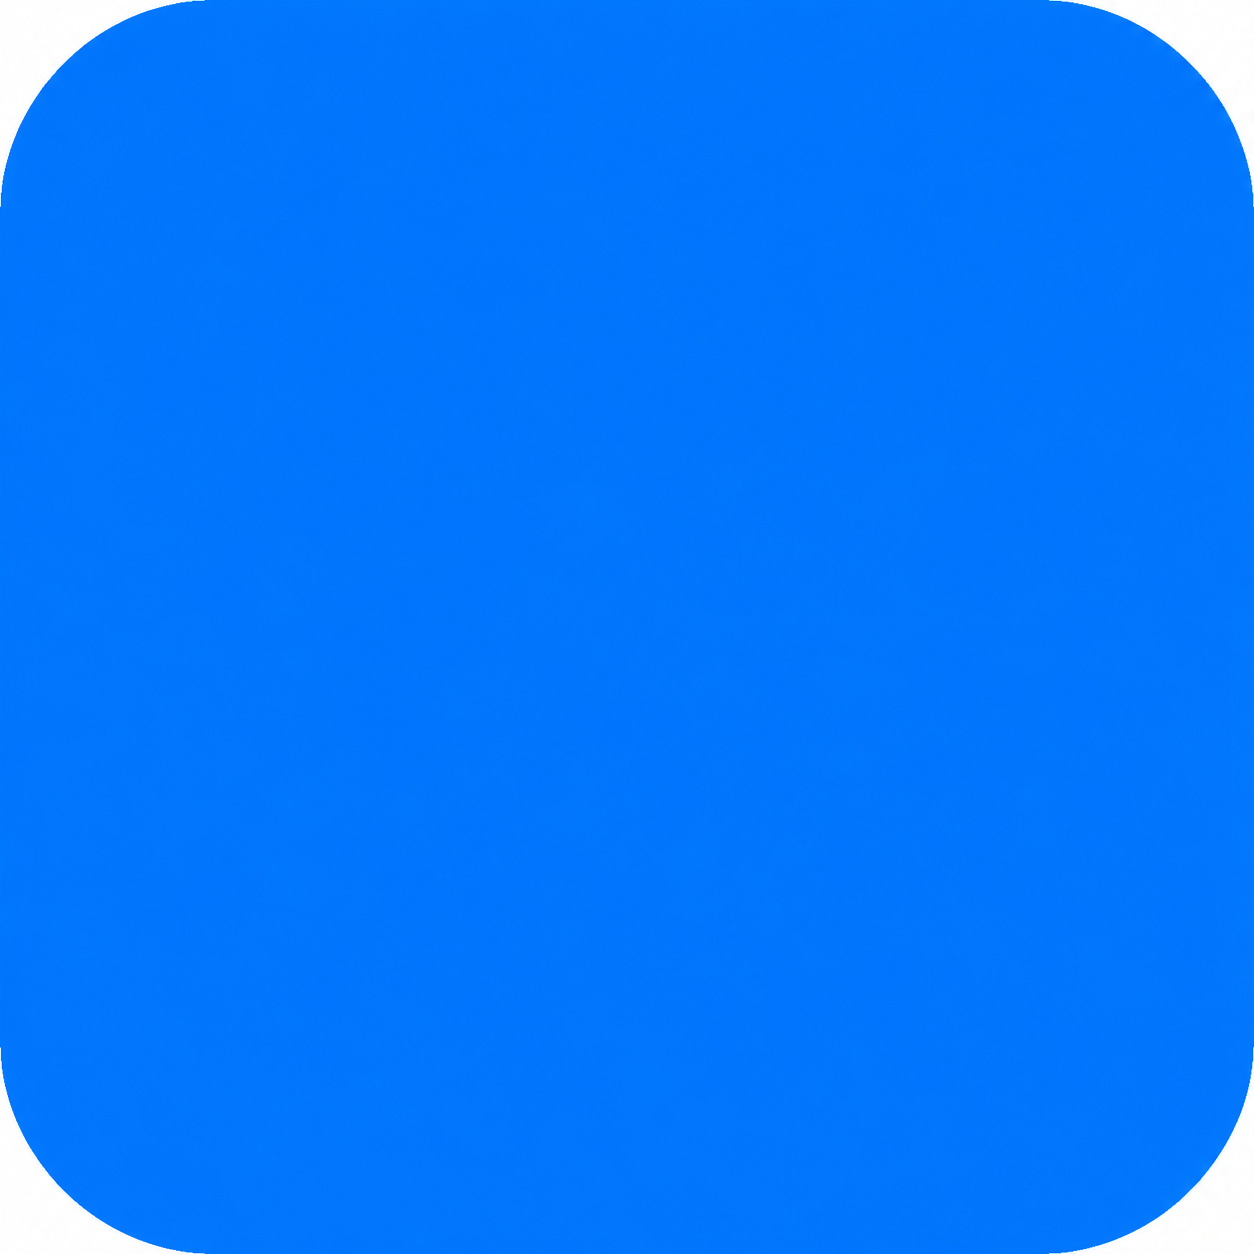
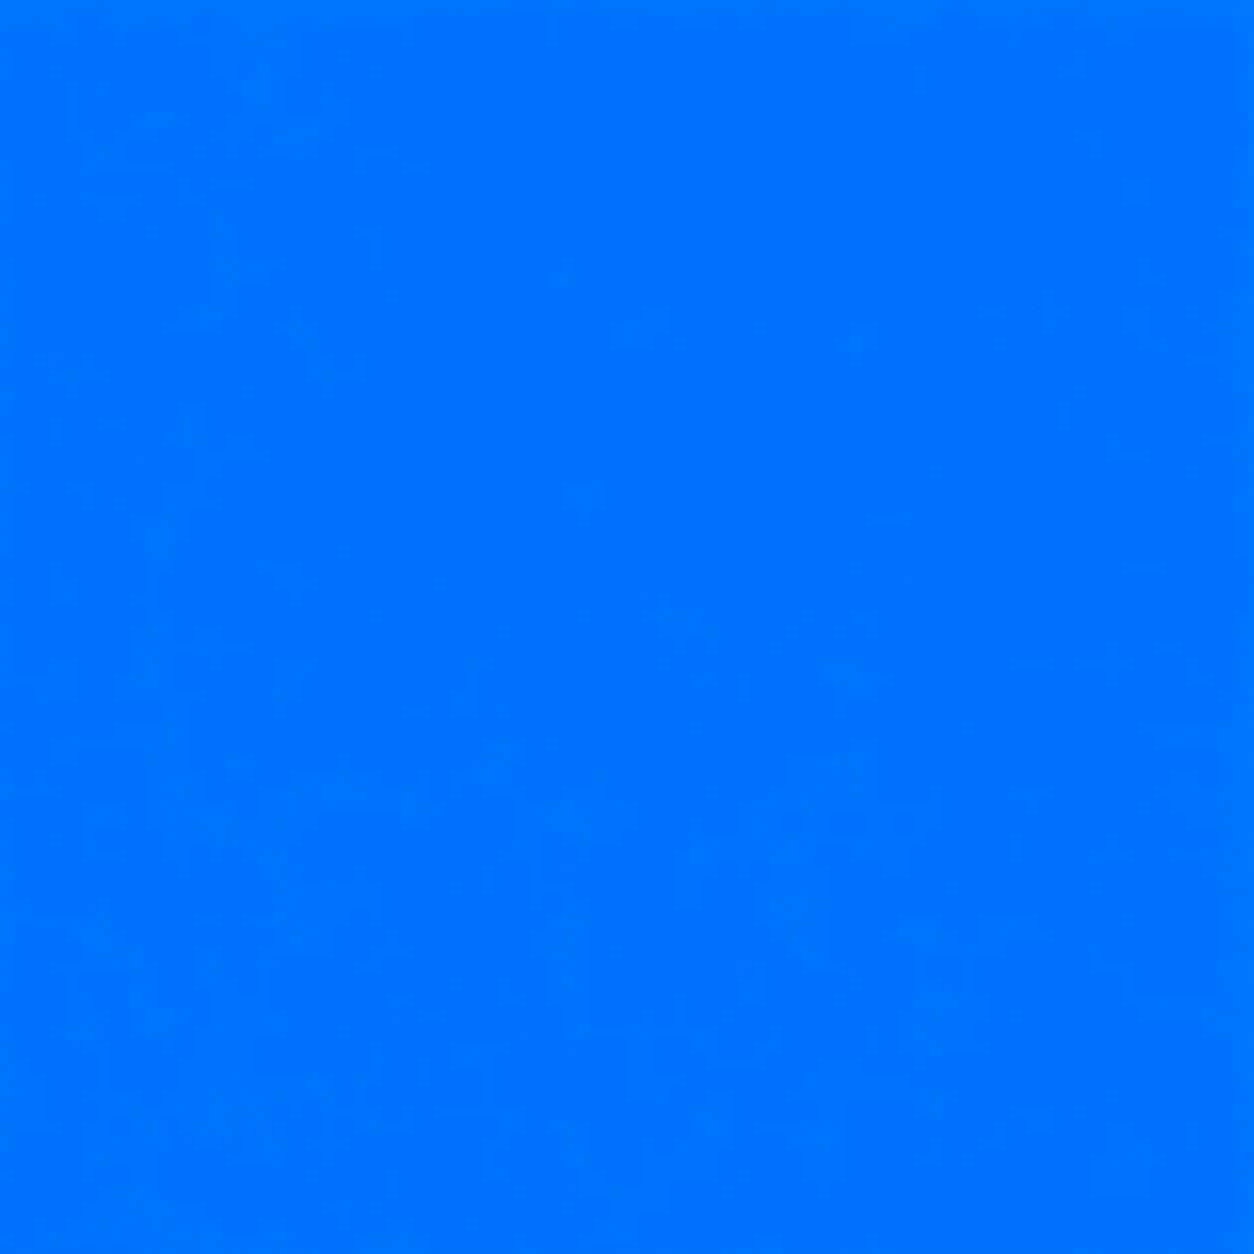
bump iOS build to 49

diff --git a/lib/main.dart b/lib/main.dart
@@ -7,6 +7,7 @@ import 'package:flutter/services.dart';
 import 'package:webview_flutter/webview_flutter.dart';
 import 'package:connectivity_plus/connectivity_plus.dart';
 import 'package:url_launcher/url_launcher.dart';
+import 'package:google_mobile_ads/google_mobile_ads.dart';
 
 import 'package:firebase_core/firebase_core.dart';
 import 'package:firebase_messaging/firebase_messaging.dart';
@@ -16,6 +17,36 @@ import 'package:firebase_messaging/firebase_messaging.dart';
 ========================= */
 Future<void> firebaseBgHandler(RemoteMessage message) async {
   await Firebase.initializeApp();
+}
+
+/* =========================
+   ADMOB
+========================= */
+
+/// BANNER
+BannerAd bannerAd = BannerAd(
+  size: AdSize.banner,
+  adUnitId: 'ca-app-pub-9371341402256787/8085634494',
+  listener: BannerAdListener(),
+  request: const AdRequest(),
+);
+
+/// INTERSTITIAL
+InterstitialAd? interstitialAd;
+
+void loadInterstitial() {
+  InterstitialAd.load(
+    adUnitId: 'ca-app-pub-9371341402256787/5085734937',
+    request: const AdRequest(),
+    adLoadCallback: InterstitialAdLoadCallback(
+      onAdLoaded: (ad) {
+        interstitialAd = ad;
+      },
+      onAdFailedToLoad: (error) {
+        debugPrint(error.toString());
+      },
+    ),
+  );
 }
 
 /* =========================
@@ -36,6 +67,8 @@ void main() async {
     SystemUiMode.edgeToEdge,
   );
 
+  await MobileAds.instance.initialize();
+
   runApp(const MyApp());
 }
 
@@ -55,7 +88,7 @@ class MyApp extends StatelessWidget {
 }
 
 /* =========================
-   SPLASH (XANH NƯỚC BIỂN + LOGO)
+   SPLASH SCREEN
 ========================= */
 class SplashScreen extends StatefulWidget {
   const SplashScreen({super.key});
@@ -70,20 +103,32 @@ class _SplashScreenState extends State<SplashScreen> {
   void initState() {
     super.initState();
 
+    bannerAd.load();
+    loadInterstitial();
+
     Future.delayed(const Duration(milliseconds: 1800), () {
+
       if (!mounted) return;
 
       Navigator.pushReplacement(
         context,
-        MaterialPageRoute(builder: (_) => const WebScreen()),
+        MaterialPageRoute(
+          builder: (_) => const WebScreen(),
+        ),
       );
+
+      /// SHOW INTERSTITIAL
+      Future.delayed(const Duration(seconds: 1), () {
+        interstitialAd?.show();
+      });
     });
   }
 
   @override
   Widget build(BuildContext context) {
+
     return Scaffold(
-      backgroundColor: const Color(0xFF1E88F0), // xanh nước biển
+      backgroundColor: const Color(0xFF1E88F0),
 
       body: Center(
         child: Image.asset(
@@ -106,7 +151,8 @@ class WebScreen extends StatefulWidget {
   State<WebScreen> createState() => _WebScreenState();
 }
 
-class _WebScreenState extends State<WebScreen> {
+class _WebScreenState extends State<WebScreen>
+    with WidgetsBindingObserver {
 
   late final WebViewController controller;
   late StreamSubscription netSub;
@@ -119,6 +165,9 @@ class _WebScreenState extends State<WebScreen> {
   void initState() {
     super.initState();
 
+    /// APP LIFECYCLE OBSERVER
+    WidgetsBinding.instance.addObserver(this);
+
     /* =========================
        WEBVIEW INIT
     ========================= */
@@ -127,15 +176,22 @@ class _WebScreenState extends State<WebScreen> {
       ..setBackgroundColor(const Color(0x00000000))
       ..setNavigationDelegate(
         NavigationDelegate(
+
           onNavigationRequest: (request) async {
+
             final uri = Uri.parse(request.url);
 
-            if (uri.scheme == 'http' || uri.scheme == 'https') {
+            if (uri.scheme == 'http' ||
+                uri.scheme == 'https') {
+
               return NavigationDecision.navigate;
             }
 
             if (await canLaunchUrl(uri)) {
-              await launchUrl(uri, mode: LaunchMode.externalApplication);
+              await launchUrl(
+                uri,
+                mode: LaunchMode.externalApplication,
+              );
             }
 
             return NavigationDecision.prevent;
@@ -151,29 +207,55 @@ class _WebScreenState extends State<WebScreen> {
         .onConnectivityChanged
         .listen((result) {
 
-      final offline = result.contains(ConnectivityResult.none);
+      final offline =
+      result.contains(ConnectivityResult.none);
 
       if (offline != isOffline) {
-        setState(() => isOffline = offline);
+
+        setState(() {
+          isOffline = offline;
+        });
 
         if (!offline) {
-          controller.reload();
+
+          /// FIX BLACK SCREEN
+          controller.loadRequest(Uri.parse(url));
         }
       }
     });
 
     /* =========================
-       FIREBASE NOTI
+       FIREBASE
     ========================= */
     setupFirebase();
   }
 
+  /* =========================
+     APP RESUME FIX
+  ========================= */
+  @override
+  void didChangeAppLifecycleState(
+      AppLifecycleState state) {
+
+    if (state == AppLifecycleState.resumed) {
+
+      /// FIX iOS BLACK SCREEN
+      controller.loadRequest(Uri.parse(url));
+    }
+  }
+
+  /* =========================
+     FIREBASE SETUP
+  ========================= */
   Future<void> setupFirebase() async {
-    FirebaseMessaging messaging = FirebaseMessaging.instance;
+
+    FirebaseMessaging messaging =
+        FirebaseMessaging.instance;
 
     await messaging.requestPermission();
 
     String? token = await messaging.getToken();
+
     log("FCM TOKEN: $token");
 
     FirebaseMessaging.onMessage.listen((message) {
@@ -181,13 +263,18 @@ class _WebScreenState extends State<WebScreen> {
     });
 
     FirebaseMessaging.onMessageOpenedApp.listen((message) {
-      log("OPEN FROM NOTI");
+      log("OPEN FROM NOTIFICATION");
     });
   }
 
   @override
   void dispose() {
+
+    WidgetsBinding.instance.removeObserver(this);
+
+    bannerAd.dispose();
     netSub.cancel();
+
     super.dispose();
   }
 
@@ -195,10 +282,14 @@ class _WebScreenState extends State<WebScreen> {
      BACK HANDLER
   ========================= */
   Future<bool> handleBack() async {
+
     if (await controller.canGoBack()) {
+
       await controller.goBack();
+
       return false;
     }
+
     return true;
   }
 
@@ -208,45 +299,83 @@ class _WebScreenState extends State<WebScreen> {
     return PopScope(
       canPop: false,
 
-      onPopInvokedWithResult: (didPop, result) async {
+      onPopInvokedWithResult:
+          (didPop, result) async {
+
         if (didPop) return;
+
         await handleBack();
       },
 
       child: Scaffold(
         backgroundColor: Colors.black,
 
-        body: Stack(
-          children: [
+        body: SafeArea(
+          child: Stack(
+            children: [
 
-            WebViewWidget(controller: controller),
+              /* WEBVIEW */
+              Positioned.fill(
+                child: Padding(
+                  padding: EdgeInsets.only(
+                    bottom: bannerAd.size.height.toDouble(),
+                  ),
 
-            /* OFFLINE OVERLAY */
-            if (isOffline)
-              Container(
-                color: Colors.black,
-                child: const Center(
-                  child: Column(
-                    mainAxisAlignment: MainAxisAlignment.center,
-                    children: [
-
-                      Icon(
-                        Icons.wifi_off,
-                        color: Colors.white,
-                        size: 70,
-                      ),
-
-                      SizedBox(height: 10),
-
-                      Text(
-                        "No Internet Connection",
-                        style: TextStyle(color: Colors.white),
-                      ),
-                    ],
+                  child: WebViewWidget(
+                    controller: controller,
                   ),
                 ),
               ),
-          ],
+
+              /* OFFLINE OVERLAY */
+              if (isOffline)
+                Container(
+                  color: Colors.black,
+
+                  child: const Center(
+                    child: Column(
+                      mainAxisAlignment:
+                      MainAxisAlignment.center,
+
+                      children: [
+
+                        Icon(
+                          Icons.wifi_off,
+                          color: Colors.white,
+                          size: 70,
+                        ),
+
+                        SizedBox(height: 10),
+
+                        Text(
+                          "No Internet Connection",
+                          style: TextStyle(
+                            color: Colors.white,
+                          ),
+                        ),
+                      ],
+                    ),
+                  ),
+                ),
+
+              /* ADMOB BANNER */
+              Align(
+                alignment: Alignment.bottomCenter,
+
+                child: SizedBox(
+                  width:
+                  bannerAd.size.width.toDouble(),
+
+                  height:
+                  bannerAd.size.height.toDouble(),
+
+                  child: AdWidget(
+                    ad: bannerAd,
+                  ),
+                ),
+              ),
+            ],
+          ),
         ),
       ),
     );
